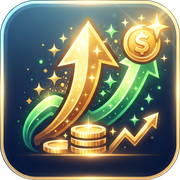
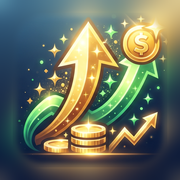
手機主畫面圖示改為不透明滿版並內縮留邊，避免 iOS 圓角裁切爆框

diff --git a/CLAUDE.md b/CLAUDE.md
@@ -160,6 +160,8 @@ python3 invest.py buy 2882 1000 70 --date 2026-11-03 --source opening   # 補建
 - X 軸是類別軸，標籤要唯一：`lbl()` 在區間超過約 11 個月時改用「年/月/日」，否則去年和今年同一天會畫在同一格。
 - 網站圖示：我的組合、月報、報告頁用金色箭頭（web/favicon-16/32.png 只裁主箭頭、icon-192.png、apple-touch-icon.png）；
   技術分析頁用放大鏡（web/ta-*.png）。本機伺服器另外提供 /favicon.ico。
+  apple-touch-icon 必須是**不透明、滿版正方形、主圖內縮留邊**：iOS 會自己切圓角並把透明處補黑，
+  圓形或自帶圓角的圖貼邊會被切到（看起來爆框）。
 - 天數篩選：1 / 5 / 7 / 60 / 120 / 250 日，只影響圖表顯示範圍；指標和評分都以完整歷史計算。沒有盤中分時資料。
 - **刻意不做**：券商分點（主力、隔日沖）和股權分散（大戶／散戶）是 FinMind 付費資料，不估算、不顯示假數字。
 - 效能：圖表 responsive 關閉，改用 ResizeObserver 只在寬度改變時重排；捲動時暫停圖表 hover；分頁延遲繪製。
